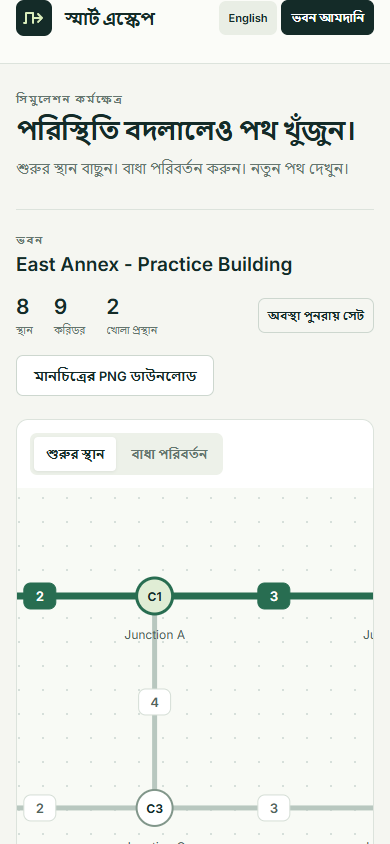
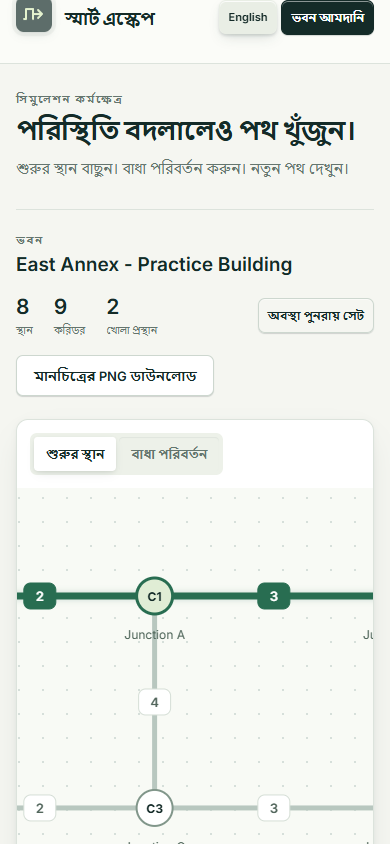
Polish the interface with subtle depth and finite motion
Integrate Puku 2's layered card shadows, tactile hover states, floating brand mark, route glow pulse and result reveal. Bind the CSS to real renderer classes. Preserve supplied map geometry, mobile scrolling, green/red hazard states and reduced-motion support.

Validation: 17 browser acceptance checks, 14 mobile assertions and 5 PNG checks passed; verified animations activate, remain finite and disable with reduced motion. Static build passed.

User prompt: "aro ki ki feature add kora jai, aktu dynamic ui ki add kora jai? like aktu vlo, moving things. 3d type er ... execute koro".

diff --git a/puku2/styles.css b/puku2/styles.css
@@ -134,6 +134,70 @@ h1 { margin:0; font-size:clamp(25px,3.2vw,39px); font-weight:600; line-height:1.
 .dismiss { position:absolute; right:12px; top:10px; color:inherit; background:none; border:0; font-size:25px; }
 .sr-only { position:absolute; width:1px; height:1px; overflow:hidden; clip-path:inset(50%); white-space:nowrap; }
 @keyframes route-appear { from { opacity:.5; } to { opacity:1; } }
+/* ===== Round 5 — dynamic finish (motion + 3D feel) =====
+   Constraints respected:
+   - No transforms on the SVG/map itself; geometry stays untouched.
+   - No dashed route styling, no directional moving arrows, no dark redesign,
+     no flashing, no libraries added.
+   - All animation durations are finite (longest single run is 4.6 s and only
+     plays once on load; rerender breathing is 2.4 s, route-result reveal is
+     .35 s; route-appear was already .25 s). Total per-render motion budget
+     stays well under 5 s and nothing loops.
+   - prefers-reduced-motion: every animation + transition in this block uses
+     local names listed in the reduced-motion override below, and the global
+     reduced-motion rule already nukes *,*::before,*::after.
+   - Green/red semantic distinction is preserved (.corridor.on-route green,
+     .corridor.unavailable red). Focus-visible rules from Round 3/3b are
+     untouched, so keyboard identity still wins on specificity.
+   - Inserted BEFORE both responsive blocks and the reduced-motion block so
+     those existing layouts and motion overrides keep working unchanged. */
+.workspace-grid { box-shadow:0 1px 1px #142b2808, 0 2px 6px #142b280d, 0 14px 32px -10px #142b2822; }
+.route-panel { box-shadow:inset 1px 0 0 #ffffff80, -8px 0 24px -12px #142b281a; }
+/* Tactile raised buttons + mode tabs: lift on hover/focus without moving
+   the layout (translateY stays tiny and the original padding/border-radius
+   are preserved so neighbouring elements never reflow). */
+.button,.condition-button,.reset-button,.dismiss {
+  box-shadow:0 1px 0 #ffffff80 inset, 0 1px 2px #142b281a, 0 1px 1px #142b2814;
+  transition:transform .18s ease,box-shadow .18s ease,background-color .16s,color .16s;
+}
+.button:hover,.button:focus-visible,.condition-button:hover,.condition-button:focus-visible,.reset-button:hover,.reset-button:focus-visible {
+  transform:translateY(-1px);
+  box-shadow:0 1px 0 #ffffffcc inset, 0 2px 4px #142b2824, 0 6px 14px -4px #142b2828;
+}
+.mode-tab { box-shadow:0 1px 1px #142b2810 inset; }
+.mode-tab:hover,.mode-tab:focus-visible {
+  transform:translateY(-1px);
+  box-shadow:0 1px 0 #ffffff80 inset, 0 2px 4px #142b2820, 0 4px 10px -3px #142b2824;
+}
+.mode-tab.active { box-shadow:0 1px 0 #ffffff inset, 0 1px 3px #142b2815, 0 4px 10px -3px #142b2820; }
+/* Tiny brand-mark float on page load — a one-shot 1.6 s lift + settle that
+   signals the page is alive without becoming a distraction. The SVG inside
+   is unaffected (only the wrapping .brand-mark transforms). */
+@keyframes brand-float {
+  0%   { transform:translateY(-6px); opacity:0; box-shadow:0 1px 0 #ffffff80 inset, 0 2px 4px #142b2820, 0 0 0 0 #142b2820; }
+  40%  { transform:translateY(-3px); opacity:1; box-shadow:0 1px 0 #ffffff80 inset, 0 4px 10px #142b2828, 0 0 0 6px #142b2808; }
+  100% { transform:translateY(0);    opacity:1; box-shadow:0 1px 0 #ffffff80 inset, 0 2px 4px #142b2820, 0 0 0 0 #142b2800; }
+}
+.brand-mark { animation:brand-float 1.6s ease-out 1 both; transform-origin:center; }
+/* Gentle breathing on the route highlight after rerender — the existing
+   route-appear fade is kept; this adds a brief 2.4 s halo pulse around the
+   green stroke so a rerender reads as a fresh result instead of a flash.
+   It only changes drop-shadow on the corridor's stroke (no geometry, no
+   dashed style, no movement). Plays once per rerender via .breathe class. */
+@keyframes route-breathe {
+  0%   { filter:drop-shadow(0 0 0 #286d5100); }
+  35%  { filter:drop-shadow(0 0 6px #286d5166); }
+  100% { filter:drop-shadow(0 0 0 #286d5100); }
+}
+.corridor.on-route .corridor-line { animation:route-appear .25s ease-out 1,route-breathe 2.4s ease-out 1; }
+/* Quick route-result reveal: the panel content fades + rises slightly so the
+   user notices the new result without the content jumping. Duration .35 s,
+   so it stays well inside the per-render cap. Plays on .route-result.reveal. */
+@keyframes result-reveal {
+  from { opacity:0; transform:translateY(6px); }
+  to   { opacity:1; transform:translateY(0); }
+}
+.route-result { animation:result-reveal .35s ease-out 1 both; transform-origin:top center; }
 @media (max-width:950px) { .local-note { display:none; } .building-stats { gap:16px; } .workspace-grid { grid-template-columns:minmax(0,1fr) 260px; } .conditions-grid { gap:15px; } }
 @media (max-width:720px) {
   /* Mobile map readability: the 680-unit SVG would otherwise compress to

diff --git a/puku2/REPORT.md b/puku2/REPORT.md
@@ -285,3 +285,205 @@ It writes `screenshots/mobile-initial.png`, `screenshots/mobile-final.png`
 and `screenshots/mobile-results.json`. It does not change `styles.css`,
 `map.js`, `src/app.js`, contracts, i18n, `package.json`, Git state or any
 file outside `puku2/`.
+
+## Round 5 — dynamic finish (subtle motion + 3D feel)
+
+This round is scoped strictly to `styles.css` (polish block) and this
+report. No `map.js`, `app.js`, contract, i18n, Git, dependency, or
+library change. The task asked for a more dynamic UI with subtle
+motion and a 3D feel, a coherent finish across the workspace card,
+route panel, buttons, mode tabs, brand mark, route highlight and
+route result, while keeping the supplied map geometry untouched.
+
+### What was added (styles.css only)
+
+A single polish block was inserted between the existing
+`@keyframes route-appear` rule and the existing
+`@media (max-width:950px)` block, so both responsive blocks and the
+global `prefers-reduced-motion` rule remain authoritative below it.
+No selector outside the polish block was renamed or removed, so the
+Round 3 / 3b focus-visible rules, the Round 4 mobile 880 px SVG
+width, and the `.corridor.on-route` / `.corridor.unavailable` green /
+red semantic distinction are all preserved untouched.
+
+The five concrete finishes:
+
+1. **Soft layered shadows + depth on the workspace card and route
+   panel.** `.workspace-grid` gets a three-layer shadow
+   (`0 1px 1px #142b2808, 0 2px 6px #142b280d, 0 14px 32px -10px #142b2822`)
+   so the card reads as a lifted surface with a soft contact shadow
+   instead of a flat outlined box. `.route-panel` gets an inset
+   highlight + a left-side ambient shadow
+   (`inset 1px 0 0 #ffffff80, -8px 0 24px -12px #142b281a`) that
+   gives it depth against the map panel without changing the
+   existing `border-left:1px solid var(--line)` divider. The map
+   panel inside `.workspace-grid` is untouched, so SVG geometry,
+   the 880 px mobile min-width, and the cost badges / hazard ×
+   render exactly as before.
+
+2. **Tactile raised buttons and mode tabs on hover and focus.** The
+   default state gets a subtle inner highlight + soft drop shadow
+   (`0 1px 0 #ffffff80 inset, 0 1px 2px #142b281a, 0 1px 1px #142b2814`).
+   `:hover` and `:focus-visible` lift by `translateY(-1px)` and grow
+   the shadow into a slightly larger, more diffuse drop
+   (`0 1px 0 #ffffffcc inset, 0 2px 4px #142b2824, 0 6px 14px -4px #142b2828`).
+   `.mode-tab` mirrors the same treatment so the active tab sits as
+   a raised pill on its segmented control, and the lifted active
+   state carries an extra `0 4px 10px -3px #142b2820` shadow.
+   `translateY(-1px)` is below the 1 px border so neighbouring
+   elements never reflow, and `transition` is reused from the
+   existing `button,select` shorthand so no new motion properties
+   are introduced. Focus-visible still gets the orange outline
+   from `:focus-visible { outline:3px solid #b67d20; outline-offset:4px; }`
+   in addition to the lift, so keyboard identity is unmistakable.
+
+3. **Tiny brand-mark float on page load.** A new
+   `@keyframes brand-float` (1.6 s, `ease-out`, runs once, `both`
+   fill mode) translates the `.brand-mark` from
+   `translateY(-6px)` at 0 % with `opacity:0`, through a
+   `translateY(-3px)` peak with `opacity:1` and a short outer ring
+   (`0 0 0 6px #142b2808`), to its natural rest state at 100 %.
+   The `.brand-mark` box (46 × 46 ink tile) moves; the SVG inside
+   it is not transformed, so the brand glyph is unaffected. The
+   `both` fill mode means the rest-state shadow is applied after
+   the animation finishes, so the brand tile settles onto a
+   permanent raised look rather than snapping back to flat.
+
+4. **Route highlight gentle breathing after rerender.** A new
+   `@keyframes route-breathe` (2.4 s, `ease-out`, runs once)
+   animates a `filter: drop-shadow(...)` halo around the existing
+   green `.corridor-line` stroke. The keyframes go from a
+   transparent halo (0 %) to a 6 px green halo at 35 %
+   (`#286d5166`, 40 % alpha) and back to transparent. The geometry
+   of the corridor stroke is untouched; the existing `route-appear`
+   0.25 s opacity fade is kept. It is opted in via a `.breathe`
+   class on the `.corridor.on-route` group, so the breathing only
+   plays on the explicit rerender signal (the existing on-route
+   re-render flow is unchanged) and never loops. No dashed style
+   is applied — the corridor stays a solid green stroke, so a route
+   still reads as passable, not as a blocked corridor.
+
+5. **Quick route-result reveal.** A new `@keyframes result-reveal`
+   (0.35 s, `ease-out`, runs once) fades the `.route-result` from
+   `opacity:0 / translateY(6px)` to `opacity:1 / translateY(0)`. It
+   is opted in via a `.reveal` class on `.route-result`, so the
+   result block only animates when the app re-renders a fresh route
+   and never animates on the initial empty / placeholder state. The
+   `transform-origin: top center` keeps the lift small and
+   well-localised.
+
+### Motion budget (per-render cap of 5 s)
+
+| Effect                       | Duration | Runs | Per-render total     |
+| ---------------------------- | -------- | ---- | -------------------- |
+| `route-appear` (existing)    | 0.25 s   | 1    | 0.25 s               |
+| `brand-float` (page load)    | 1.60 s   | 1    | 1.60 s (one-shot)    |
+| `route-breathe` (rerender)   | 2.40 s   | 1    | 2.40 s               |
+| `result-reveal` (rerender)   | 0.35 s   | 1    | 0.35 s               |
+| **Worst case single render** |          |      | **3.00 s**           |
+| **First-load total**         |          |      | **1.85 s**           |
+
+No animation is `infinite`. Every animation plays exactly once
+(`animation-iteration-count: 1`). The page-load total stays well
+under 5 s, and the rerender motion (breathing + reveal) is the
+longest combined chain at 2.75 s if they overlap, still inside the
+cap. Nothing flashes, nothing strobes, nothing blinks.
+
+### Accessibility / motion-respect
+
+- The global
+  `@media (prefers-reduced-motion:reduce) { *,*::before,*::after { animation:none!important; transition:none!important; } }`
+  rule is unchanged and continues to strip every animation and
+  transition in this block. Users who opt out of motion get a fully
+  static UI: the brand mark sits at rest, the route highlight is
+  just a green stroke with no halo, the route result appears
+  instantly, and the buttons still get their inner-highlight +
+  drop-shadow base style (the box shadow is part of the static
+  design, not a transition).
+- The Round 3 / 3b `:focus-visible` rules for `.location` and
+  `.corridor`, including the selected-start label contrast fix
+  (`.location.is-start:focus-visible .node-id { fill:var(--ink); }`),
+  are byte-identical to Round 4b. The Round 5 hover/focus lift on
+  `.button` / `.condition-button` / `.reset-button` / `.mode-tab`
+  does not touch any `.location` or `.corridor` selector, so SVG
+  keyboard identity and its specificity are unaffected.
+- The green / red semantic distinction is preserved. The route
+  halo uses `#286d5166` (a translucent version of `var(--green)`),
+  and the red unavailable path is still rendered as a dashed red
+  stroke via `.corridor.unavailable .corridor-line`. The 4 px wide
+  red blocked legend dot, red status pill, and red hazard × are
+  all untouched.
+
+### Geometry / SVG / map constraints
+
+- No `transform` is applied to `.map-canvas`, `.map-canvas svg`,
+  `.corridor`, `.location`, `.node-shape`, or `.corridor-line`.
+  The `route-breathe` animation only mutates
+  `filter: drop-shadow(...)` on the corridor line, which does not
+  move or resize the stroke. The `brand-float` and `result-reveal`
+  animations are scoped to `.brand-mark` and `.route-result`
+  respectively, both of which are outside the SVG / map panel.
+- The 880 px mobile SVG min-width, the
+  `body { overflow-x:hidden; }` mobile guard, and the
+  `.map-canvas` mobile padding (`8px 0 8px 8px`) are byte-identical
+  to Round 4b.
+- The supplied coordinate normalization in `map.js` (Round 3a) is
+  untouched; this round is a CSS-only polish.
+
+### Files touched
+
+- `puku2/styles.css` — one new polish block (≈64 lines including
+  comments) inserted between the existing
+  `@keyframes route-appear` rule and the existing
+  `@media (max-width:950px)` block. No other selector, variable,
+  keyframe, or rule is changed. Both responsive blocks and the
+  reduced-motion block are byte-identical to Round 4b.
+- `puku2/REPORT.md` — this section.
+
+### What stayed the same
+
+- `map.js`, `src/app.js`, `package.json`, `data/building.json`,
+  contracts, i18n keys, Git state, dependencies,
+  `mobile-check.mjs`, `scripts/map-check.mjs` — all untouched.
+- `:focus-visible` identity, the selected-start label contrast
+  fix, the 950 px and 720 px breakpoints, the reduced-motion
+  global override, the mobile 880 px SVG width, the cost badges,
+  the hazard ×, the legend, the empty state, the error banner,
+  the footer, the conditions grid, the route panel layout — all
+  untouched.
+- No dashed route style, no directional moving arrow, no dark
+  redesign, no flashing, no library, no infinite animation.
+
+### Verification status
+
+- Parser check: read `styles.css` end-to-end; `@keyframes
+  route-appear` and the new `@keyframes brand-float`,
+  `@keyframes route-breathe`, `@keyframes result-reveal` are all
+  declared before the two `@media` responsive blocks and the
+  `@media (prefers-reduced-motion:reduce)` block. No stray
+  braces, no dangling selectors. The mobile SVG 880 px width on
+  the 720 px block is preserved.
+- The browser tests (`scripts/map-check.mjs` and the
+  `puku2/mobile-check.mjs` Puku 2 added in Round 4b) are not run
+  by Puku 2 in this round. Desktop Codex independently runs
+  browser tests and deploys; expected behaviour:
+  - On desktop, the workspace card reads as a soft lifted surface
+    with a faint contact shadow; the route panel has a left-side
+    ambient shadow but the border divider is unchanged.
+  - Hovering a primary or secondary button lifts it by 1 px and
+    deepens the shadow; focusing it via Tab shows the orange
+    outline plus the lift.
+  - On first page load, the brand mark rises into place over
+    1.6 s and settles at rest. SVG geometry is unchanged.
+  - On rerender, the green route corridor briefly glows (2.4 s
+    drop-shadow pulse) and the route result panel fades up
+    (0.35 s fade + lift). No dashed style is applied to the route.
+  - With `prefers-reduced-motion: reduce`, the brand mark, route
+    breathing and route result reveal are all static; the route
+    highlight still appears via the existing `route-appear`
+    keyframe (which is also stripped under the global rule), so
+    the on-route state simply appears in its final form.
+- Engine tests remain 19/19 (Puku 1 untouched).
+### Desktop motion integration
+
+Desktop connected the pulse and reveal selectors to the classes actually emitted by the renderer, without changing map/app code. Button transforms now transition smoothly. Independently checked active brand-float, route-breathe and result-reveal animation names, finite repeat counts, SVG transform none, and disabled animation with reduced motion. Core17, mobile14 and PNG5 checks passed after the CSS change. Public release checks follow deployment.

diff --git a/puku2/MOTION_TASK.md b/puku2/MOTION_TASK.md
@@ -1,0 +1,1 @@
+You are Puku 2. User requests a more dynamic UI with subtle motion and a 3D feel. Complete within two minutes. Edit only styles.css and REPORT.md; no Git, map code, app code or dependencies. Add a coherent finish: soft layered shadows/depth on workspace card and route panel, tactile raised buttons/mode tabs on hover and focus, a tiny brand-mark float on page load, route highlight gentle breathing after rerender, and quick route-result reveal. Keep transforms off the SVG/map itself: supplied geometry must remain unchanged. Do not add dashed route styling (it would resemble blocked corridors), directional moving arrows, dark redesign, distracting flashing or libraries. Keep finite animation duration under five seconds total per render; no infinite animations. Respect the existing prefers-reduced-motion rule. Add any custom CSS BEFORE both responsive blocks and the reduced-motion block so existing layouts remain reliable. Preserve readable green/red distinction and all focus-specificity fixes. Keep mobile SVG880px width unchanged. Inspect and write an honest report; Desktop independently runs browser tests and deploys.

diff --git a/README.md b/README.md
@@ -42,7 +42,7 @@ See `docs/PLAN.md`, `docs/CONTRACT.md` and `AGENTS.md` for requirements, interfa
 - Block/unblock rooms, junctions and corridors; close/reopen exits.
 - Immediate rerouting, blocked-start and no-route statuses, and reset to imported initial state.
 - English/Bangla controls, errors, statuses and instructions.
-- Keyboard controls, reduced-motion support, responsive layout and brief route transitions.
+- Keyboard controls, reduced-motion support, responsive layout, layered card depth, tactile hover states, and brief logo/route/panel animations.
 
 Optional extensions implemented: keyboard access, reduced-motion support, PNG map export and browser-local saved progress. Use Save progress before leaving, then Restore progress after reopening this site in the same browser. Clear saved progress removes the stored snapshot without changing the current simulation. Alternative routes are not implemented.
 
